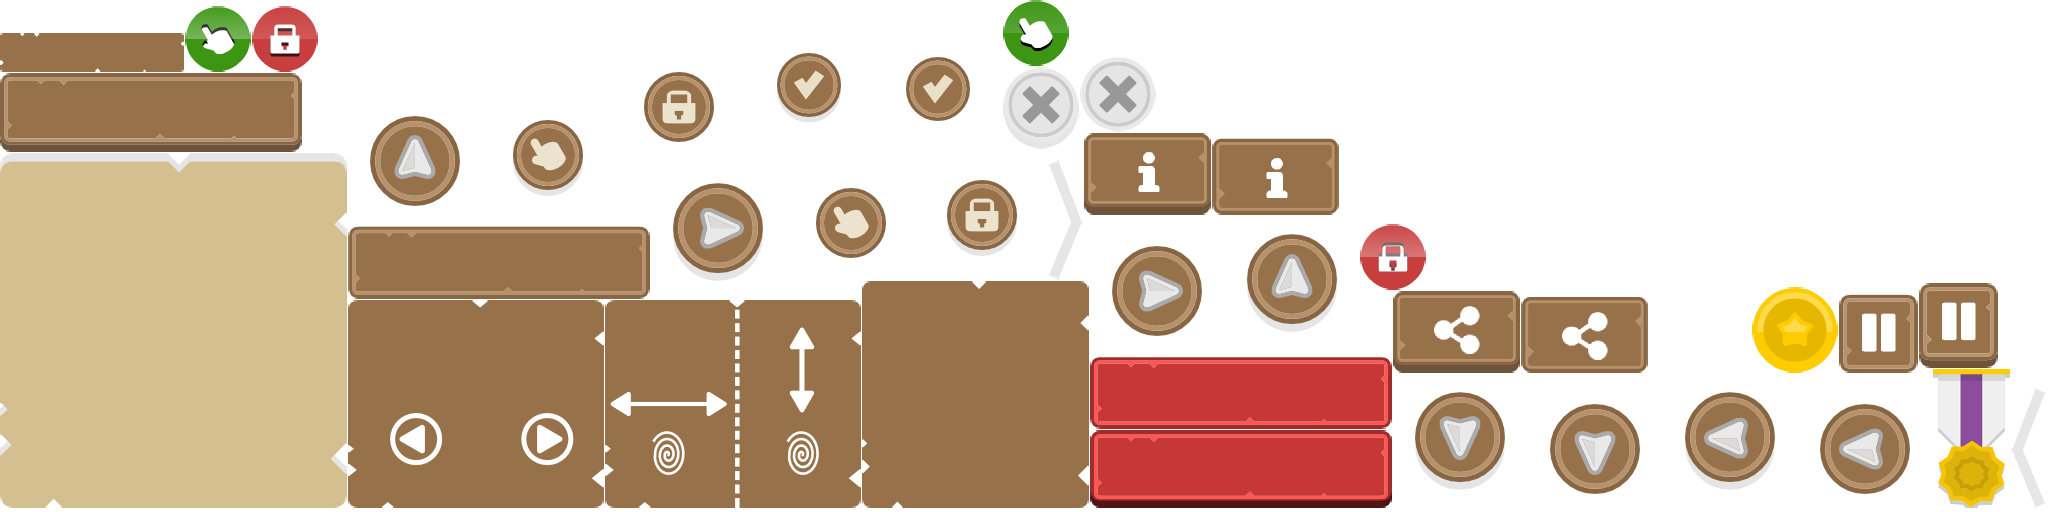
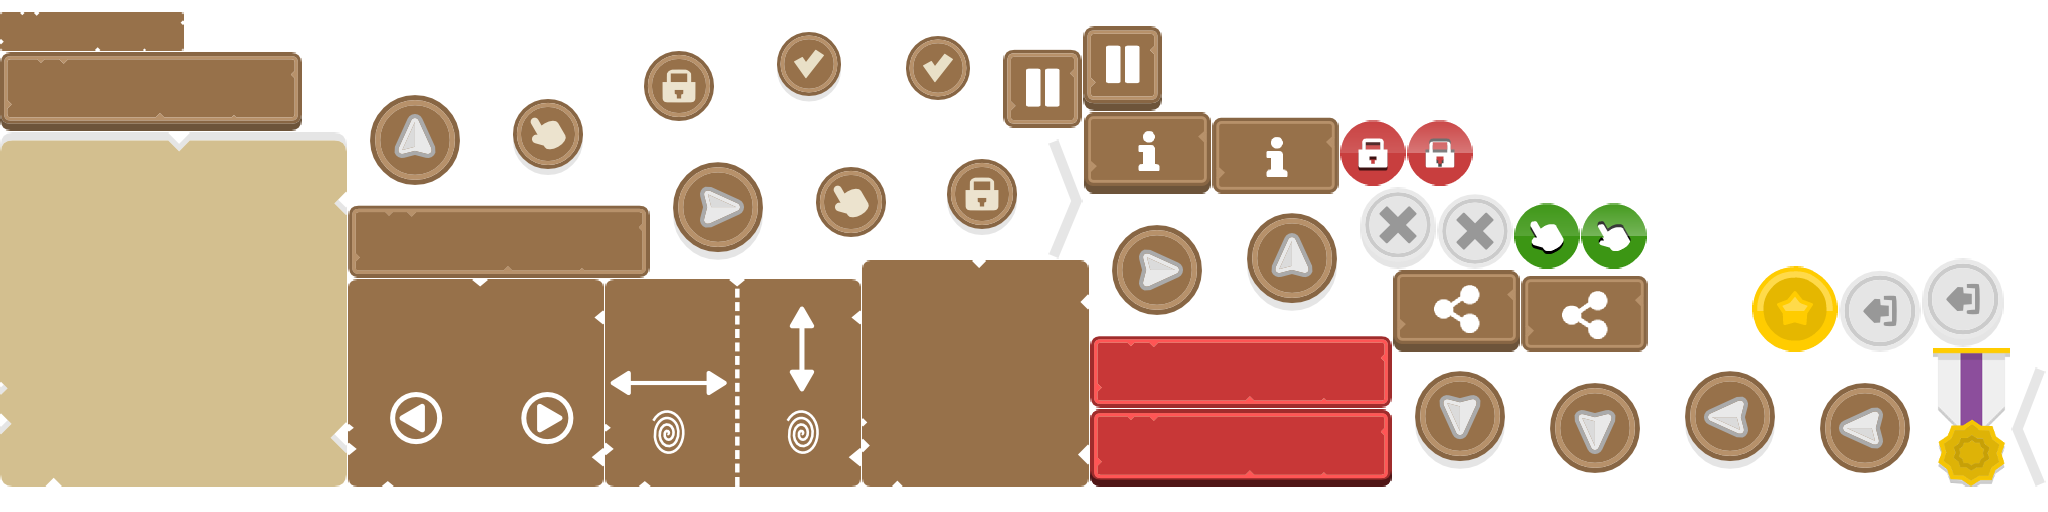
Font size change in UI
Made refactor to some font names

diff --git a/core/src/com/epifania/ui/PauseMenu.java b/core/src/com/epifania/ui/PauseMenu.java
@@ -1,11 +1,13 @@
 package com.epifania.ui;
 
 import com.badlogic.gdx.graphics.Color;
-import com.badlogic.gdx.math.MathUtils;
-import com.badlogic.gdx.scenes.scene2d.Group;
+import com.badlogic.gdx.math.Interpolation;
 import com.badlogic.gdx.scenes.scene2d.InputEvent;
+import com.badlogic.gdx.scenes.scene2d.Touchable;
+import com.badlogic.gdx.scenes.scene2d.actions.Actions;
 import com.badlogic.gdx.scenes.scene2d.ui.*;
 import com.badlogic.gdx.scenes.scene2d.utils.ClickListener;
+import com.badlogic.gdx.utils.Align;
 import com.badlogic.gdx.utils.I18NBundle;
 import com.epifania.utils.Assets;
 import com.epifania.utils.UI_Utils;
@@ -13,11 +15,10 @@ import com.epifania.utils.UI_Utils;
 /**
  * Created by juan on 6/15/16.
  */
-public class PauseMenu extends Group {
+public class PauseMenu extends Table {
 
     private Skin skin;
-    private Table table;
-    private Button close;
+    private Table root;
     private TextButton resume;
     private TextButton settings;
     private TextButton exit;
@@ -25,24 +26,16 @@ public class PauseMenu extends Group {
     public Listener listener;
 
     public interface Listener{
-        public void exit();
-        public void resume1();
+        void exit();
+        void resume1();
+        void showSettings();
     }
 
-    public  PauseMenu(Listener listener1, I18NBundle bundle){
+    public  PauseMenu(final Listener listener1, I18NBundle bundle){
         this.listener = listener1;
         skin = Assets.instance.get("user interface/uiskin.json",Skin.class);
-        table = new Table(skin);
-        table.setBackground(skin.getDrawable("pause_panel"));
-
-        close = new Button(skin,"close");
-        close.addListener(UI_Utils.clickSound());
-        close.addListener(new ClickListener(){
-           @Override
-            public void clicked(InputEvent event, float x, float y){
-               listener.resume1();
-           }
-        });
+        root = new Table(skin);
+        root.setBackground(skin.getDrawable("pause_panel"));
 
         label = new Label(bundle.get("pause").toUpperCase(),skin,"header");
         label.setColor(Color.LIGHT_GRAY.BROWN);
@@ -61,7 +54,7 @@ public class PauseMenu extends Group {
         settings.addListener(new ClickListener(){
             @Override
             public void clicked(InputEvent event, float x, float y){
-                //TODO add settings: may be a window
+                listener.showSettings();
             }
         });
 
@@ -79,42 +72,52 @@ public class PauseMenu extends Group {
         float padB = 0;
         float padC = 30;
         float padD = 70;
-        table.add(label).pad(padA).padBottom(padC).padTop(padD);
-        table.row();
-        table.add(resume).pad(padA);
-        table.row();
-        table.add(settings).pad(padA);
-        table.row();
-        table.add(exit).pad(padA).padBottom(padD);
-        table.pad(padB);
-        table.pack();
+        root.add(label).pad(padA).padBottom(padC).padTop(padD);
+        root.row();
+        root.add(resume).pad(padA);
+        root.row();
+        root.add(settings).pad(padA);
+        root.row();
+        root.add(exit).pad(padA).padBottom(padD);
+        root.pad(padB);
+        root.pack();
+        root.setTransform(true);
+        root.setOrigin(Align.center);
 
-        table.setWidth(Math.max(table.getWidth(),table.getHeight()));
-        table.setHeight(Math.max(table.getWidth(),table.getHeight()));
+        float size=Math.max(root.getWidth(), root.getHeight());
 
-        setButtonPosition();
+        add(root).center().size(size);
 
-        addActor(table);
-//        addActor(close);
+        this.setBackground(skin.getDrawable("opaque_pixel"));
+        this.setTouchable(Touchable.enabled);
+        this.setFillParent(true);
     }
 
     @Override
-    public float getWidth(){
-        return table.getWidth() + close.getWidth()*0.5f;
+    public void setScale(float scaleX, float scaleY) {
+        super.setScale(scaleX, scaleY);
+        root.setScale(scaleX, scaleY);
     }
 
-    @Override
-    public float getHeight(){
-        return table.getHeight() + close.getHeight()*0.25f;
+    public void show(){
+        float duration = 0.2f;
+        this.setScale(1.1f,1.1f);
+        this.addAction(Actions.sequence(
+                Actions.alpha(0),
+                Actions.show(),
+                Actions.parallel(
+                        Actions.fadeIn(duration),
+                        Actions.scaleTo(1f,1f,duration*2,Interpolation.bounceOut))
+        ));
     }
-
-    @Override
-    public void setPosition (float x, float y) {
-        super.setPosition(x,y);
-        setButtonPosition();
-    }
-
-    private void setButtonPosition(){
-        close.setPosition(-close.getWidth()*0.5f,table.getHeight()-close.getHeight()*0.75f);
+    public void hide(){
+        float duration = 0.2f;
+        this.addAction(Actions.sequence(
+                Actions.alpha(1),
+                Actions.parallel(
+                        Actions.fadeOut(duration),
+                        Actions.scaleTo(1.1f,1.1f,duration*2)),
+                Actions.hide()
+        ));
     }
 }

diff --git a/core/src/com/epifania/utils/Assets.java b/core/src/com/epifania/utils/Assets.java
@@ -79,6 +79,8 @@ public class Assets implements Disposable, AssetErrorListener{
 		parameter.fontParameters.minFilter = Texture.TextureFilter.MipMapLinearNearest;
 		parameter.fontParameters.genMipMaps = true;
 		this.assetManager.load("gameFont.fnt",BitmapFont.class,parameter);
+		parameter.fontParameters.size=30;
+		this.assetManager.load("normal.fnt",BitmapFont.class,parameter);
 		FreetypeFontLoader.FreeTypeFontLoaderParameter parameter2 = new FreetypeFontLoader.FreeTypeFontLoaderParameter();
 		parameter2.fontFileName = "user interface/fonts/FreeSerifBold.ttf";
 		parameter2.fontParameters.size = 50;
@@ -141,6 +143,8 @@ public class Assets implements Disposable, AssetErrorListener{
 		ObjectMap<String, Object> resources = new ObjectMap<String, Object>();
 		BitmapFont f=assetManager.get("gameFont.fnt",BitmapFont.class);
 		BitmapFont skinFont = new BitmapFont(f.getData(),f.getRegions(),true);
+		BitmapFont f1=assetManager.get("normal.fnt",BitmapFont.class);
+		BitmapFont skinFont1 = new BitmapFont(f1.getData(),f1.getRegions(),true);
 		BitmapFont f2 = assetManager.get("bigFont.fnt",BitmapFont.class);
 		BitmapFont skinFont2 = new BitmapFont(f2.getData(),f2.getRegions(),true);
 		BitmapFont f3 = assetManager.get("midFont.fnt",BitmapFont.class);
@@ -152,6 +156,7 @@ public class Assets implements Disposable, AssetErrorListener{
 		BitmapFont f6 = assetManager.get("h3title.fnt",BitmapFont.class);
 		BitmapFont fontTitle2 = new BitmapFont(f6.getData(),f6.getRegions(),true);
 		resources.put("default",skinFont);
+		resources.put("normal",skinFont1);
 		resources.put("title",skinFont2);
 		resources.put("middle",skinFont3);
 		resources.put("middle_outline",skinFont4);

diff --git a/core/src/com/epifania/ui/StageHUD.java b/core/src/com/epifania/ui/StageHUD.java
@@ -47,8 +47,7 @@ public class StageHUD extends Stage {
 
     public StageHUD(Viewport viewPort, Batch batch, InputController inputController){
         super(viewPort,batch);
-        this.inputController = inputController;
-        setAsController();
+        setAsController(inputController);
     }
 
     @Override
@@ -120,7 +119,8 @@ public class StageHUD extends Stage {
         controlTable.setPosition(0,20);
     }
 
-    public void setAsController(){
+    public void setAsController(InputController inputController){
+        this.inputController = inputController;
         init();
         addActor(controlTable);
         isController = true;
@@ -130,6 +130,7 @@ public class StageHUD extends Stage {
         controlTable.remove();
         isController = false;
         isControllerActive = false;
+        controlTable.setVisible(false);
     }
 
     public void setActive(boolean b){

diff --git a/core/src/com/epifania/screens/LevelSelectionScreen.java b/core/src/com/epifania/screens/LevelSelectionScreen.java
@@ -34,6 +34,7 @@ public class LevelSelectionScreen extends ScreenAdapter {
 
     private Container<Button> leftArrow;
     private Container<Button> rightArrow;
+    private Button backButton;
     private ScrollPane scrollPane;
     private Table levelsContainer;
 
@@ -180,9 +181,12 @@ public class LevelSelectionScreen extends ScreenAdapter {
             }
         });
 
+        backButton = UI_Utils.genericButton(skin,"back",40,pageHeight -120, new MainMenuScreen(batch));
+
         stage.addActor(scrollPane);
         stage.addActor(leftArrow);
         stage.addActor(rightArrow);
+        stage.addActor(backButton);
 
         stage.setDebugAll(debug);
         Gdx.input.setInputProcessor(stage);

diff --git a/core/src/com/epifania/ui/ConversationDialog.java b/core/src/com/epifania/ui/ConversationDialog.java
@@ -23,7 +23,7 @@ public class ConversationDialog extends Group {
     public Listener listener;
 
     public ConversationDialog(Skin skin){
-        text = new Label("",skin,"dialog");
+        text = new Label("",skin);
         text.setWrap(true);
         text.setAlignment(Align.center);
         container = new Table();

diff --git a/core/src/com/epifania/screens/MainMenuScreen.java b/core/src/com/epifania/screens/MainMenuScreen.java
@@ -70,6 +70,9 @@ public class MainMenuScreen extends ScreenAdapter {
 			debug = !debug;
 			stage.setDebugAll(debug);
 		}
+		if(Gdx.input.isKeyJustPressed(Input.Keys.BACK)){
+			Gdx.app.exit();
+		}
 	}
 	@Override
 	public void resize(int width, int height) {
